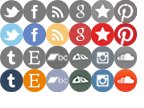
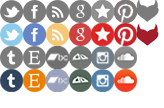
Add FL link to vendor/performer pages.

diff --git a/style.css b/style.css
@@ -1162,6 +1162,12 @@ footer .social li {
 .social .soundcloud:hover {
   background-position: -114px -69px; }
 
+.social .fetlife {
+  background-position: -137px -0px; }
+
+.social .fetlife:hover {
+  background-position: -137px -23px; }
+
 .attraction .social li {
   padding-right: 0.5em; }
 

diff --git a/sass/_social.scss b/sass/_social.scss
@@ -136,6 +136,14 @@ footer .social li {
   background-position: -114px -69px;
 }
 
+.social .fetlife {
+  background-position: -137px -0px;
+}
+
+.social .fetlife:hover {
+  background-position: -137px -23px;
+}
+
 .attraction .social li {
   padding-right: 0.5em;  
 }

diff --git a/includes/attractions.php b/includes/attractions.php
@@ -160,6 +160,15 @@ function attraction_meta_boxes() {
     'side',
     'default'
   );
+
+  add_meta_box(
+    'attraction_fetlife',
+    __( 'Fetlife Link', 'jme_event_base_theme' ),
+    'attraction_fetlife_meta_box',
+    'attraction',
+    'side',
+    'default'
+  );
 }
 
 function attraction_subhead_meta_box($object, $box) {
@@ -214,6 +223,10 @@ function attraction_video_meta_box($object, $box) {
   attraction_meta_box_helper($object, 'attraction_video', 'Video Reel URL');
 }
 
+function attraction_fetlife_meta_box($object, $box) {
+  attraction_meta_box_helper($object, 'attraction_fetlife', 'Fetlife URL');
+}
+
 function attraction_meta_box_helper($object, $id, $label) {
   wp_nonce_field( basename( __FILE__ ), $id . '_nonce' );
 
@@ -240,6 +253,7 @@ add_action( 'save_post', 'attraction_save_pinterest_meta', 10, 2 );
 add_action( 'save_post', 'attraction_save_instagram_meta', 10, 2 );
 add_action( 'save_post', 'attraction_save_soundcloud_meta', 10, 2 );
 add_action( 'save_post', 'attraction_save_video_meta', 10, 2 );
+add_action( 'save_post', 'attraction_save_fetlife_meta', 10, 2 );
 
 // Save Attraction Meta
 function attraction_save_meta_helper($post_id, $post, $meta_key, $nonce_key) {
@@ -376,6 +390,14 @@ function attraction_save_video_meta($post_id, $post) {
   /* Get the meta key. */
   $meta_key = 'attraction_video';
   $nonce_key = 'attraction_video_nonce';
+  attraction_save_meta_helper($post_id, $post, $meta_key, $nonce_key);
+}
+
+function attraction_save_fetlife_meta($post_id, $post) {
+
+  /* Get the meta key. */
+  $meta_key = 'attraction_fetlife';
+  $nonce_key = 'attraction_fetlife_nonce';
   attraction_save_meta_helper($post_id, $post, $meta_key, $nonce_key);
 }
 

diff --git a/content-social.php b/content-social.php
@@ -14,6 +14,7 @@
   $deviantart = get_post_meta($id, 'attraction_deviantart', true);
   $instagram = get_post_meta($id, 'attraction_instagram', true);
   $soundcloud = get_post_meta($id, 'attraction_soundcloud', true);
+  $fetlife = get_post_meta($id, 'attraction_fetlife', true);
 ?>
 
 <ul class="social">
@@ -49,5 +50,8 @@
   <?php endif; ?>
   <?php if ( $soundcloud != '') : ?>
     <li><a href="<?php echo $soundcloud; ?>" class="soundcloud" rel="me" target="_blank">Soundcloud</a></li>
+  <?php endif; ?>
+  <?php if ( $fetlife != '') : ?>
+    <li><a href="<?php echo $fetlife; ?>" class="fetlife" rel="me" target="_blank">Fetlife</a></li>
   <?php endif; ?>
 </ul>
